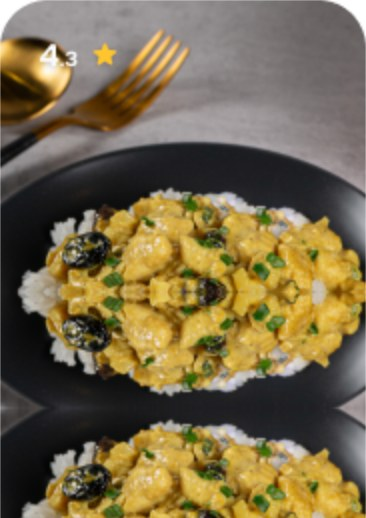
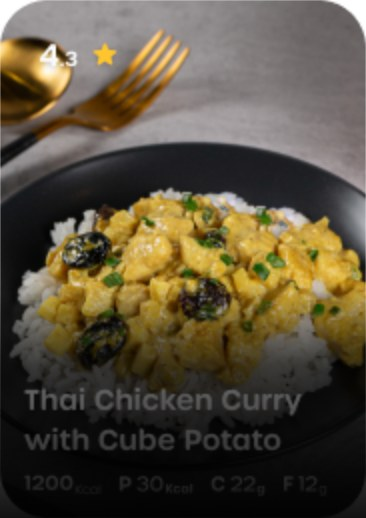
Meal Selector: no-mirror photos, steady counter, softer motion
- Dish photos: mirror-extension replaced with a dark gradient baked into
  the text zone — photo untouched above, text legible, no visual trickery
- Counter: kcal block fixed at 94pt and macro values min-width 21pt so
  changing digit counts no longer shift content left/right
- Softer feel: kcal counts over 950ms ease-in-out; gauge spring slowed
  with less overshoot

diff --git a/meal-select/index.html b/meal-select/index.html
@@ -188,6 +188,7 @@
     transition: border-width .54s cubic-bezier(.633,1.9,.761,1.433); }
   .card.sel .sel-border { border-width: 3.5px; }
   .card.dim { opacity: .55; filter: saturate(.65); }
+  .card.bk .grad { display: none; }
 
   .card .toprow { position: absolute; left: 12px; right: 12px; top: 12px; z-index: 4;
     display: flex; align-items: flex-start; justify-content: space-between; pointer-events: none; }
@@ -279,7 +280,7 @@
   .navigator.warn .warnmsg { opacity: 1; }
   .navigator .content { position: absolute; inset: 0; display: flex; align-items: center;
     gap: 15px; padding: 0 32px 0 24px; color: #f9f9f9; }
-  .navigator .kcal { filter: drop-shadow(0 1px 2px rgba(0,0,0,.35)); }
+  .navigator .kcal { filter: drop-shadow(0 1px 2px rgba(0,0,0,.35)); width: 94px; flex: none; }
   .navigator .kcal .lbl { font: 500 9px/10px 'Urbane Rounded', sans-serif; display: block;
     margin-bottom: -1px; }
   .navigator .kcal .val { display: flex; align-items: flex-end; }
@@ -290,7 +291,8 @@
   .navigator .mpair { filter: drop-shadow(0 1px 2px rgba(0,0,0,.4)); }
   .navigator .mpair .lbl { font: 500 9px/12px 'Urbane Rounded', sans-serif; display: block;
     margin-bottom: -1px; }
-  .navigator .mpair .v { font: 600 14px/18px 'Urbane Rounded', sans-serif; }
+  .navigator .mpair .v { font: 600 14px/18px 'Urbane Rounded', sans-serif;
+    display: inline-block; min-width: 21px; }
   .navigator .mpair .g { font: 400 10px/13px 'Proxima Nova', sans-serif; }
   .navigator .mpair.p { width: 43px; } .navigator .mpair.c { width: 36px; }
   .navigator .mpair.f { width: 34px; }
@@ -527,7 +529,7 @@ function buildScreen() {
 function makeCard(cat, d, i) {
   const key = cat.id + ':' + i;
   const el = document.createElement('div');
-  el.className = 'card';
+  el.className = 'card' + (d.bk ? ' bk' : '');
   el.dataset.key = key; el.dataset.cat = cat.id;
   el.innerHTML =
     '<div class="photo"><img src="' + d.img + '" alt=""></div>' +
@@ -718,9 +720,10 @@ function updateAll(instant) {
 function animateKcal(target, instant) {
   cancelAnimationFrame(kcalAnim);
   if (instant) { shownKcal = target; kcalNow.textContent = target; return; }
-  const from = shownKcal, t0 = performance.now(), dur = 600;
+  const from = shownKcal, t0 = performance.now(), dur = 950;
   const tick = now => {
-    const x = Math.min(1, (now - t0) / dur), e = 1 - Math.pow(1 - x, 3);
+    const x = Math.min(1, (now - t0) / dur),
+      e = x < .5 ? 4 * x * x * x : 1 - Math.pow(-2 * x + 2, 3) / 2;
     shownKcal = Math.round(from + (target - from) * e);
     kcalNow.textContent = shownKcal;
     if (x < 1) kcalAnim = requestAnimationFrame(tick);
@@ -1023,7 +1026,7 @@ function roundRectPath(g, x, y, w, h, r) {
 
 function gaugeTick(now) {
   const fx = gaugeFx;
-  fx.vel = fx.vel * 0.80 + (fx.target - fx.frac) * 0.085;
+  fx.vel = fx.vel * 0.85 + (fx.target - fx.frac) * 0.055;
   fx.frac += fx.vel;
   fx.alpha += (fx.alphaTarget - fx.alpha) * 0.16;
   fx.phase = now / 1000;
